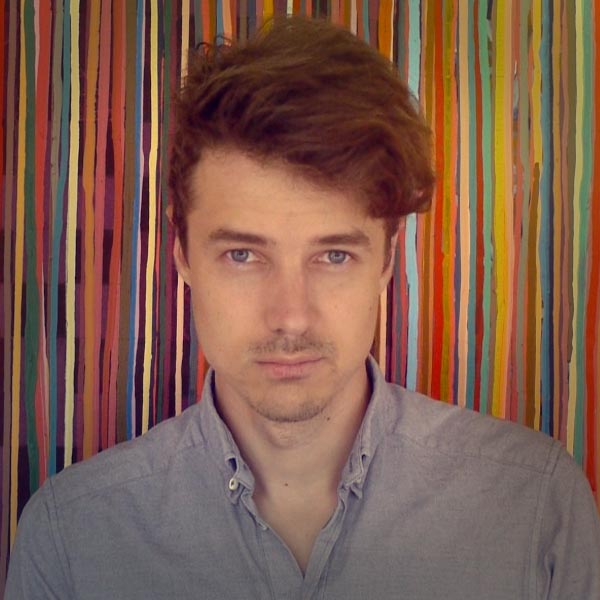
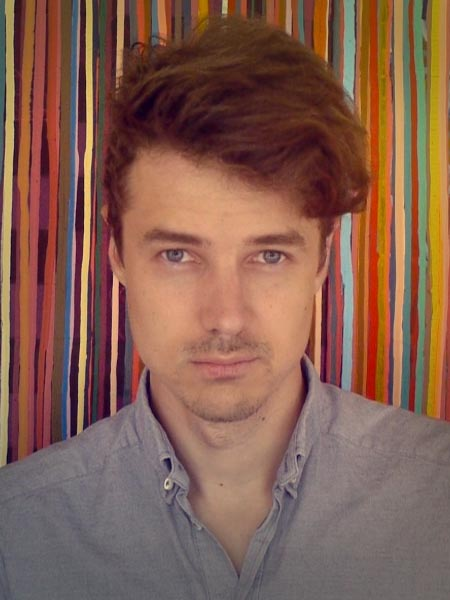
.

diff --git a/style.css b/style.css
@@ -207,7 +207,7 @@ img.profile
     display: block;
 	margin: 0 auto;
 	min-width: 40%;
-    max-width: 55%;
+    max-width: 40%;
 }
 
 @media only screen and (min-width: 1px) and (max-width: 500px) {
